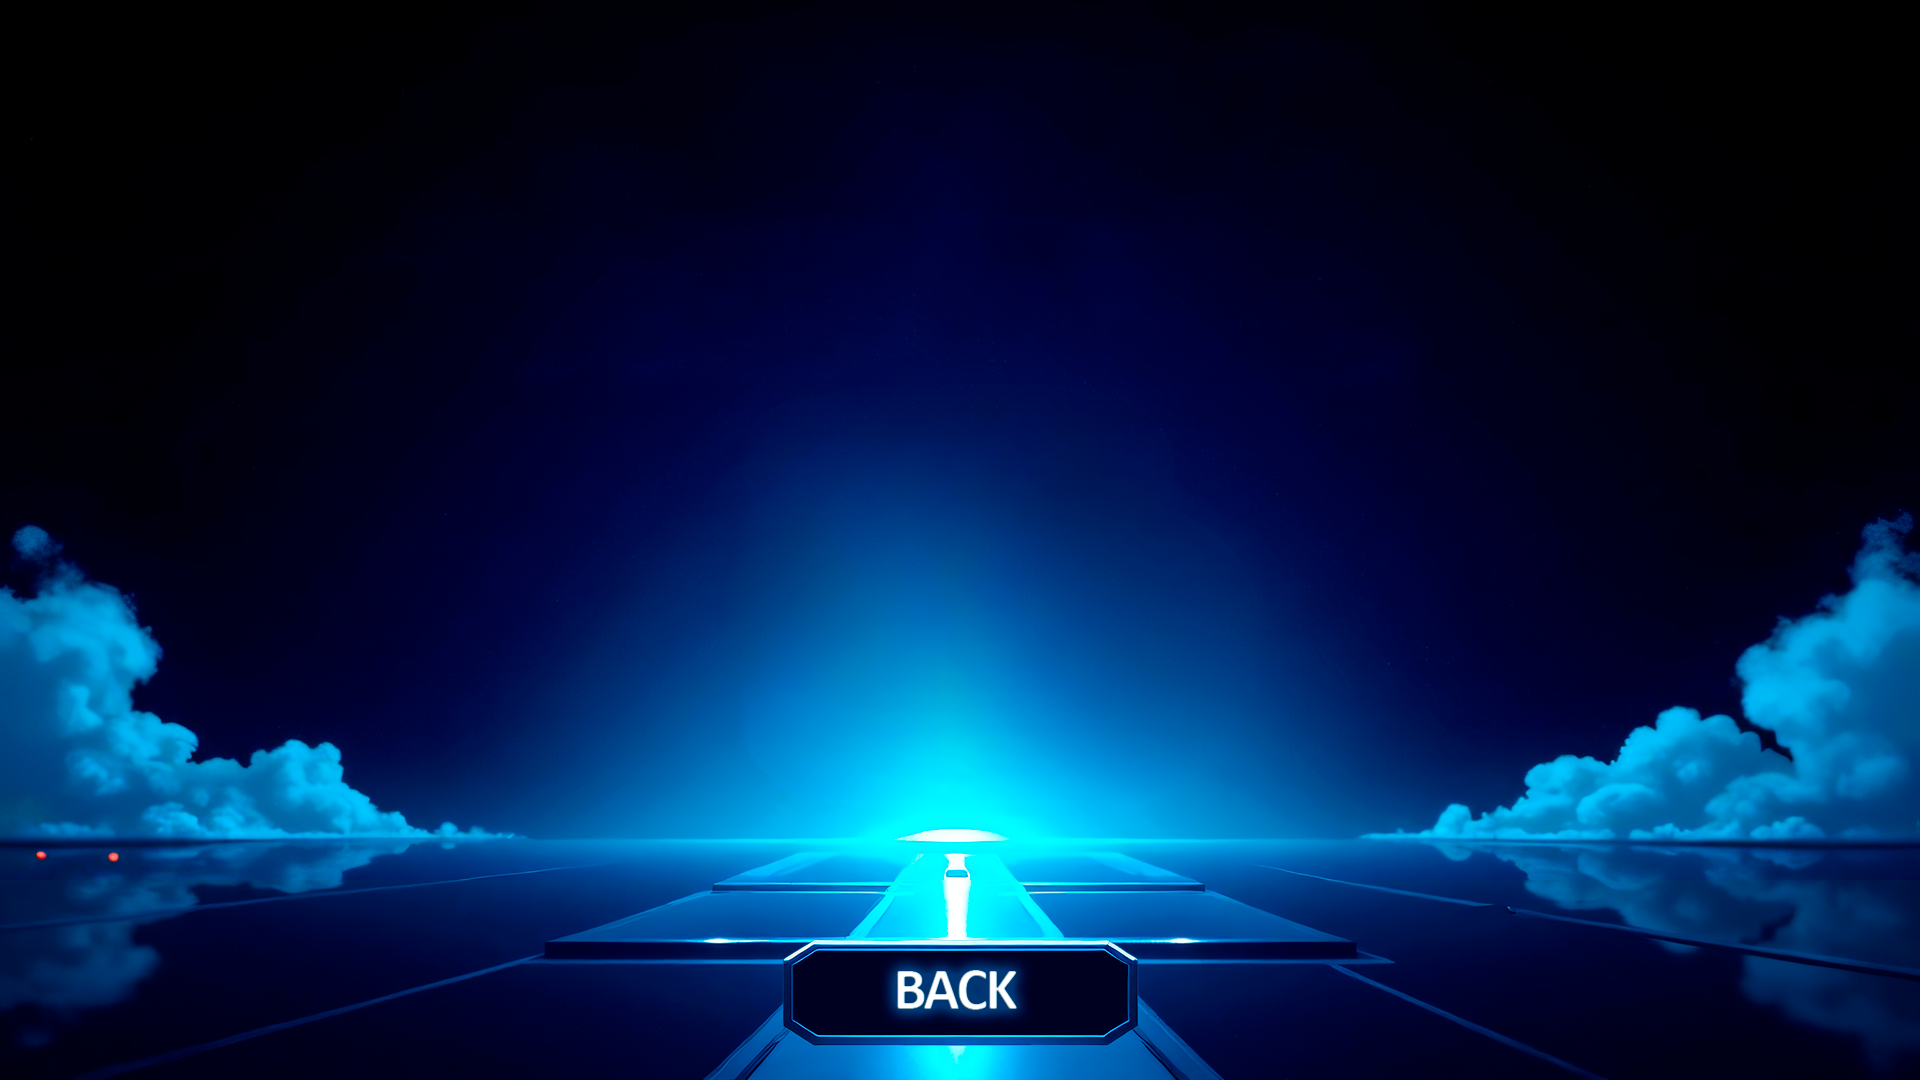
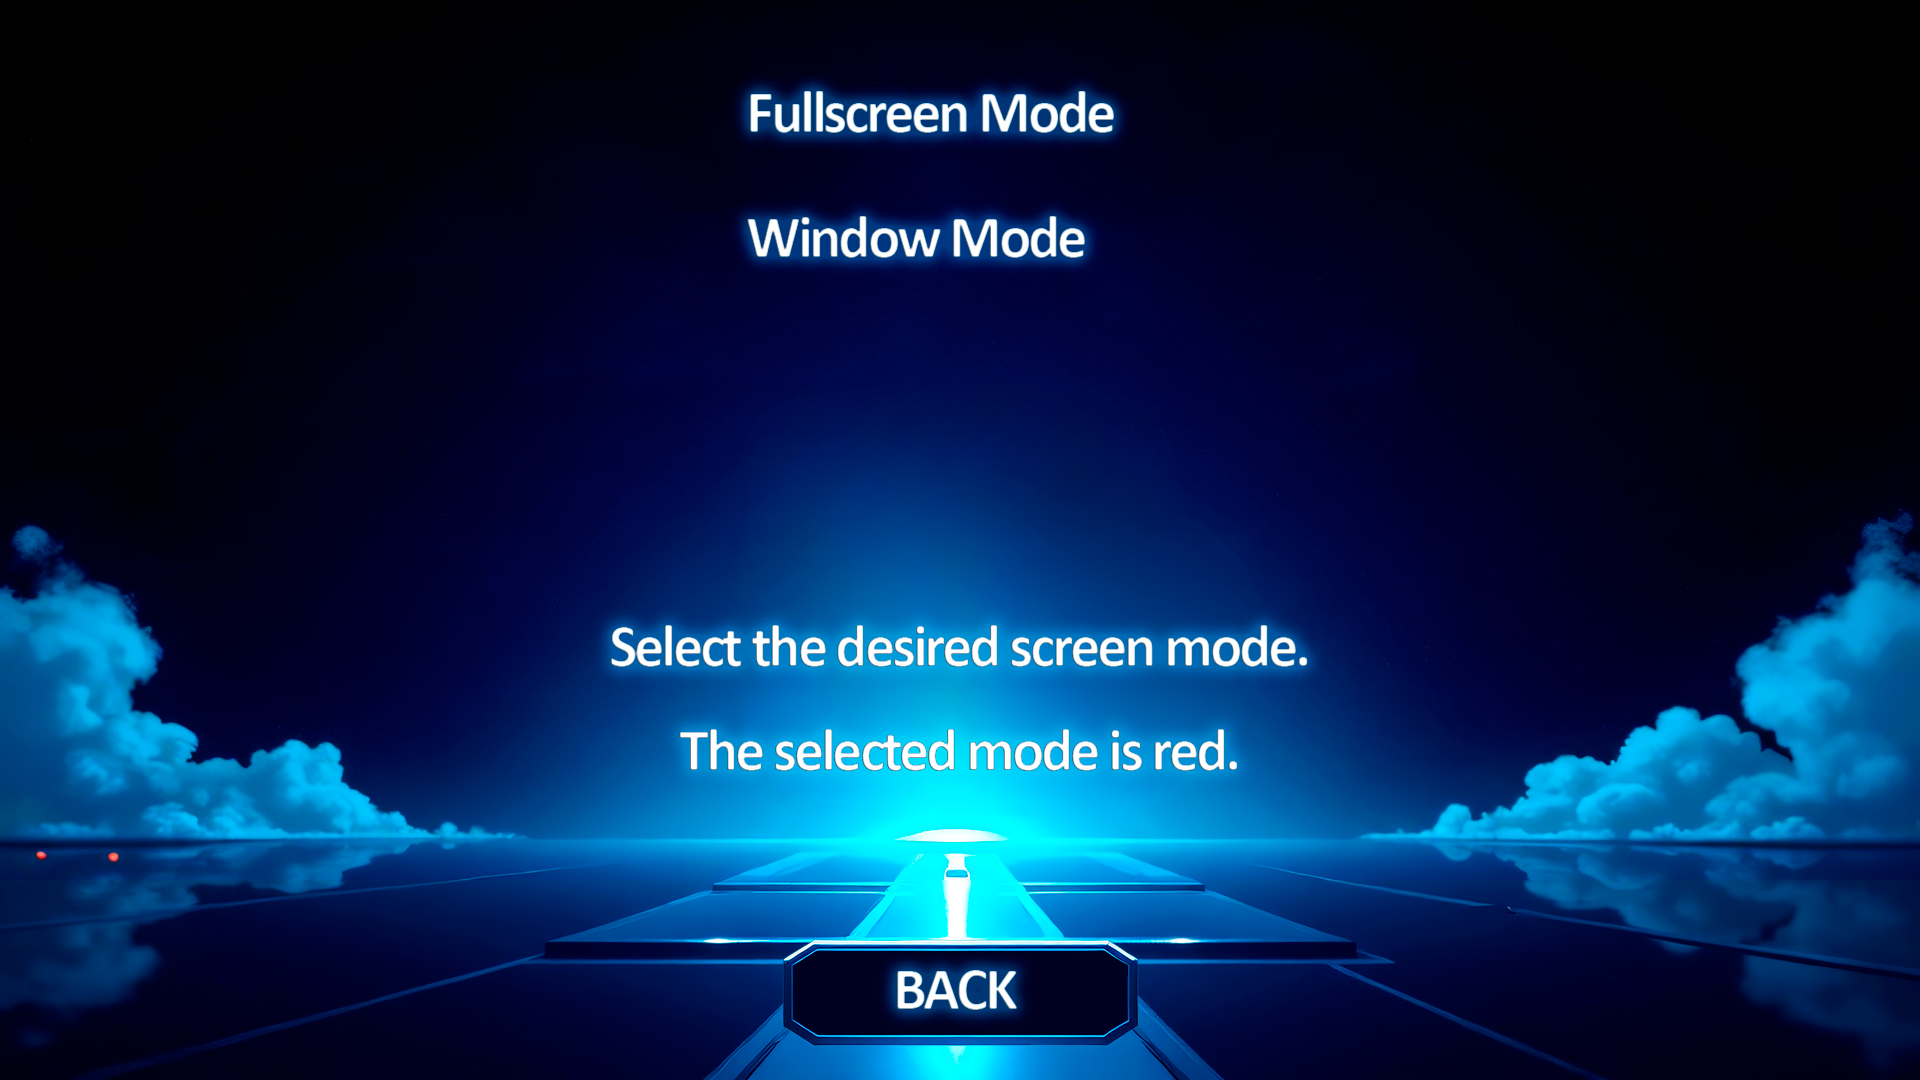
допили настройки  , теперь есть выбор режима экрана

diff --git a/core/src/main/java/com/puzzle/SettingsScreen.java b/core/src/main/java/com/puzzle/SettingsScreen.java
@@ -25,9 +25,15 @@ public class SettingsScreen implements Screen {
     private Music settingsMusic;
     private Image backgroundImage;
     private Texture menu_settigs_back;
+    private Texture menu_settingsturnfull;
+    private Texture menu_settingsturnfullback;
+    private Texture menu_settingsturnwindows;
+    private Texture menu_settingsturnwindowsback;
     private Sound buttonClickSound;
     private int gameWidth = 1920;
     private int gameHeight = 1080;
+    private Texture currentBackgroundTexture;
+    private boolean isFullscreen;
 
     public SettingsScreen(final MainGame game) {
         this.game = game;
@@ -40,6 +46,10 @@ public class SettingsScreen implements Screen {
 
         settingsImage = new Texture(Gdx.files.internal("menu.settings.Png"));
         menu_settigs_back = new Texture(Gdx.files.internal("menu.settingsback.png"));
+        menu_settingsturnfull=new Texture(Gdx.files.internal("menu_settingsturnfull.png"));
+        menu_settingsturnfullback=new Texture(Gdx.files.internal("menu_settingsturnfullback.png"));
+        menu_settingsturnwindows=new Texture(Gdx.files.internal("menu_settingsturnwindows.png"));
+        menu_settingsturnwindowsback=new Texture(Gdx.files.internal("menu_settingsturnwindowsback.png"));
         backgroundImage = new Image(settingsImage);
         backgroundImage.setSize(gameWidth, gameHeight);
         backgroundImage.setPosition(0, 0);
@@ -47,29 +57,78 @@ public class SettingsScreen implements Screen {
         settingsMusic = Gdx.audio.newMusic(Gdx.files.internal("music.mp3"));
         settingsMusic.setLooping(true);
         buttonClickSound = Gdx.audio.newSound(Gdx.files.internal("music_button.mp3"));
+        currentBackgroundTexture = settingsImage;
+        isFullscreen = game.isFullscreen();
+        updateBackgroundTexture();
 
         createUI();
+    }
+    private void updateBackgroundTexture() {
+        if(isFullscreen){
+            backgroundImage.setDrawable(new Image(menu_settingsturnfull).getDrawable());
+            currentBackgroundTexture = menu_settingsturnfull;
+        } else {
+            backgroundImage.setDrawable(new Image(menu_settingsturnwindows).getDrawable());
+            currentBackgroundTexture = menu_settingsturnwindows;
+        }
     }
 
     private void createUI() {
         TextButton.TextButtonStyle textButtonStyle = new TextButton.TextButtonStyle();
         textButtonStyle.font = new com.badlogic.gdx.graphics.g2d.BitmapFont();
 
-        TextButton backButton = new TextButton("", textButtonStyle);
+        final TextButton backButton = new TextButton("", textButtonStyle);
         backButton.setBounds(783, 35, 350, 103);
+        final TextButton fullButton = new TextButton("", textButtonStyle);
+        fullButton.setBounds(735, 930, 395, 70);
+        final TextButton windowButton = new TextButton("", textButtonStyle);
+        windowButton.setBounds(735, 805, 347, 70);
         backButton.addListener(new ClickListener() {
             @Override
             public void enter(InputEvent event, float x, float y, int pointer, com.badlogic.gdx.scenes.scene2d.Actor fromActor) {
-                backgroundImage.setDrawable(new Image(menu_settigs_back).getDrawable());
+                if (currentBackgroundTexture == settingsImage) {
+                    backgroundImage.setDrawable(new Image(menu_settigs_back).getDrawable());
+                } else if (currentBackgroundTexture == menu_settingsturnfull) {
+                    backgroundImage.setDrawable(new Image(menu_settingsturnfullback).getDrawable());
+                } else if (currentBackgroundTexture == menu_settingsturnwindows) {
+                    backgroundImage.setDrawable(new Image(menu_settingsturnwindowsback).getDrawable());
+                }
                 Gdx.graphics.setCursor(game.getDragCursor());
             }
 
             @Override
             public void exit(InputEvent event, float x, float y, int pointer, com.badlogic.gdx.scenes.scene2d.Actor toActor) {
-                backgroundImage.setDrawable(new Image(settingsImage).getDrawable());
+                backgroundImage.setDrawable(new Image(currentBackgroundTexture).getDrawable());
                 Gdx.graphics.setCursor(game.getCustomCursor());
             }
         });
+        fullButton.addListener(new ClickListener() {
+            @Override
+            public void enter(InputEvent event, float x, float y, int pointer, com.badlogic.gdx.scenes.scene2d.Actor fromActor) {
+                backgroundImage.setDrawable(new Image(menu_settingsturnfull).getDrawable());
+                Gdx.graphics.setCursor(game.getDragCursor());
+            }
+
+            @Override
+            public void exit(InputEvent event, float x, float y, int pointer, com.badlogic.gdx.scenes.scene2d.Actor toActor) {
+                updateBackgroundTexture();
+                Gdx.graphics.setCursor(game.getCustomCursor());
+            }
+        });
+        windowButton.addListener(new ClickListener() {
+            @Override
+            public void enter(InputEvent event, float x, float y, int pointer, com.badlogic.gdx.scenes.scene2d.Actor fromActor) {
+                backgroundImage.setDrawable(new Image(menu_settingsturnwindows).getDrawable());
+                Gdx.graphics.setCursor(game.getDragCursor());
+            }
+
+            @Override
+            public void exit(InputEvent event, float x, float y, int pointer, com.badlogic.gdx.scenes.scene2d.Actor toActor) {
+                updateBackgroundTexture();
+                Gdx.graphics.setCursor(game.getCustomCursor());
+            }
+        });
+
 
         backButton.addListener(new ClickListener()
         {
@@ -80,8 +139,33 @@ public class SettingsScreen implements Screen {
                 Gdx.graphics.setCursor(game.getCustomCursor());
             }
         });
+        fullButton.addListener(new ClickListener()
+        {
+            @Override
+            public void clicked(InputEvent event, float x, float y) {
+                buttonClickSound.play(0.4f);
+                isFullscreen = true;
+                game.setFullscreen(true);
+                updateBackgroundTexture();
+
+            }
+        });
+        windowButton.addListener(new ClickListener()
+        {
+            @Override
+            public void clicked(InputEvent event, float x, float y) {
+                buttonClickSound.play(0.4f);
+                isFullscreen = false;
+                game.setFullscreen(false);
+                updateBackgroundTexture();
+
+            }
+        });
+
 
         stage.addActor(backButton);
+        stage.addActor(fullButton);
+        stage.addActor(windowButton);
     }
 
     public void playSettingsMusic() {

diff --git a/core/src/main/java/com/puzzle/MainGame.java b/core/src/main/java/com/puzzle/MainGame.java
@@ -14,6 +14,9 @@ public class MainGame extends Game {
     private String backgroundMusicFile = "music.mp3";
     private Cursor customCursor;
     private Cursor dragCursor;
+    private int gameWidth = 1920;
+    private int gameHeight = 1080;
+    private boolean isFullscreen = true;
 
     @Override
     public void create() {
@@ -21,7 +24,7 @@ public class MainGame extends Game {
 
         backgroundMusic = Gdx.audio.newMusic(Gdx.files.internal(backgroundMusicFile));
         backgroundMusic.setLooping(true);
-        backgroundMusic.setVolume(0.4f);
+        backgroundMusic.setVolume(0.1f);
         playBackgroundMusic();
         Pixmap dragCursorPixmap = new Pixmap(Gdx.files.internal("drag_cursor.png"));
         dragCursor = Gdx.graphics.newCursor(dragCursorPixmap, 0, 0);
@@ -68,6 +71,19 @@ public class MainGame extends Game {
     }
     public Cursor getCustomCursor() {
         return customCursor;
+    }
+    public void setFullscreen(boolean fullscreen) {
+        if (fullscreen != isFullscreen) { // Prevent unnecessary mode switching
+            if (fullscreen) {
+                Gdx.graphics.setFullscreenMode(Gdx.graphics.getDisplayMode());
+            } else {
+                Gdx.graphics.setWindowedMode(gameWidth, gameHeight);
+            }
+            isFullscreen = fullscreen; // Update fullscreen state
+        }
+    }
+    public boolean isFullscreen() {
+        return isFullscreen;
     }
 
 }

diff --git a/lwjgl3/src/main/java/com/puzzle/Main.java b/lwjgl3/src/main/java/com/puzzle/Main.java
@@ -4,6 +4,7 @@ import com.badlogic.gdx.Files;
 import com.badlogic.gdx.backends.lwjgl3.Lwjgl3Application;
 import com.badlogic.gdx.backends.lwjgl3.Lwjgl3ApplicationConfiguration;
 
+
 public class Main {
     public static void main(String[] arg) {
         Lwjgl3ApplicationConfiguration config = new Lwjgl3ApplicationConfiguration();

diff --git a/core/src/main/java/com/puzzle/Game.java b/core/src/main/java/com/puzzle/Game.java
@@ -1,8 +1,6 @@
 package com.puzzle;
 
 import com.badlogic.gdx.Gdx;
-import com.badlogic.gdx.graphics.Cursor;
-import com.badlogic.gdx.graphics.Pixmap;
 import com.badlogic.gdx.graphics.Texture;
 import com.badlogic.gdx.graphics.glutils.ShapeRenderer;
 import com.badlogic.gdx.scenes.scene2d.Actor;
